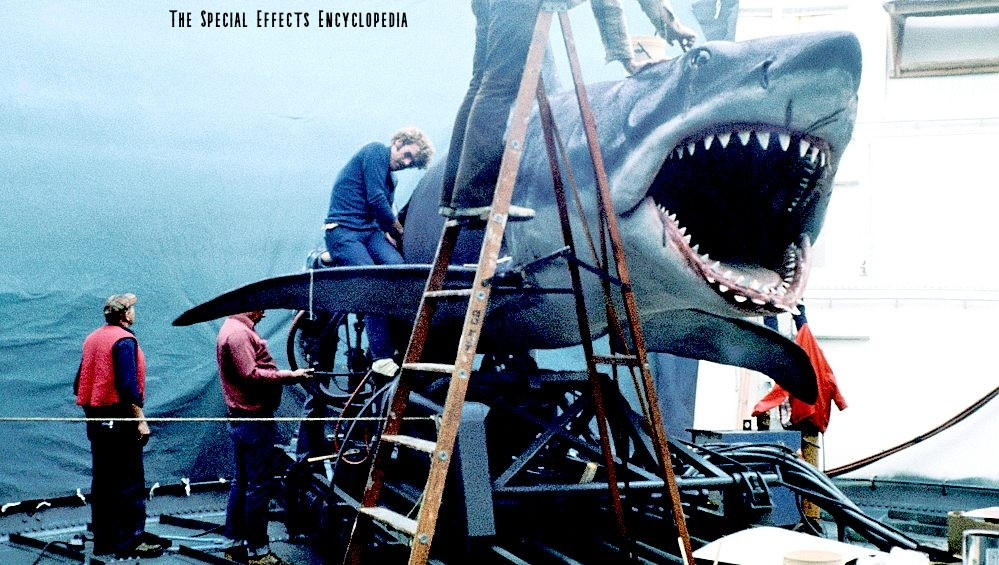
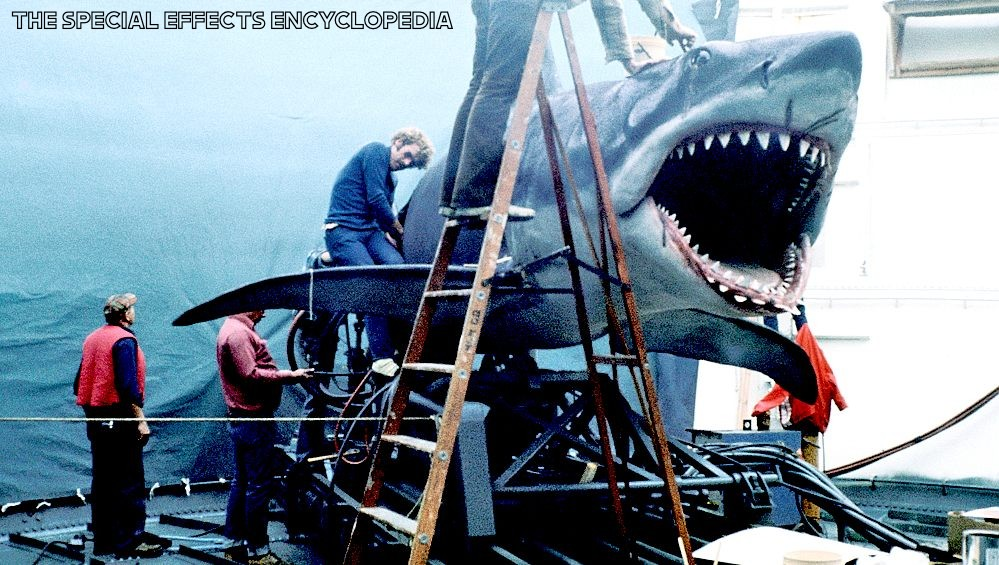
initial alien animatronic page

Changed region(s): [[0.0, 0.0, 0.4655, 0.0602]]

diff --git a/pages/alien/alien-animatronic.html b/pages/alien/alien-animatronic.html
@@ -18,6 +18,10 @@
     <link href="https://fonts.googleapis.com/css2?family=Fjalla+One&display=swap" rel="stylesheet">
     <link rel="preconnect" href="https://fonts.gstatic.com">
     <link href="https://fonts.googleapis.com/css2?family=Overpass:wght@200&display=swap" rel="stylesheet">
+    <link rel="preconnect" href="https://fonts.gstatic.com">
+    <link href="https://fonts.googleapis.com/css2?family=Asap+Condensed&display=swap" rel="stylesheet">
+
+
 
     <style>
         body {
@@ -124,10 +128,39 @@
                 ALIEN QUEEN FROM THE FILM <em>"ALIENS" </em> WAS BOTH A CONCEPTUAL AND MECHANICAL MASTERPIECE.
                 <br>
             </h4>
-             </div>
-             <br>
+        </div>
+        <br>
 
     </div>
+    <br>
+
+    <div class="container">
+        <div class="row">
+            <div class="col">
+                <img class="img-gbge" src="../../images/alien/al-anim2.jpg">
+            </div>
+            <div class="col">
+                <p class="al-an-text">James Cameron conceived a radical approach to puppeteering her, which would
+                    involve
+                    hanging the creature
+                    from an overhead crane and stationing two stunt men inside the mid-section to operate the puppet’s
+                    four arms. Other key functions would be controlled through external rods, wires and hydraulics.
+                </p>
+                <p class="al-an-text">“When Jim first came to me with this idea of putting two guys inside a giant alien
+                    queen suit,”
+                    Winston admitted, “I thought, ‘This man is out of his mind.’ Nothing like that had been done before.
+                    But in the next moment, I realized that if he had imagined it, we could probably do it.”</p>
+                <p class="al-an-text">For a Stan Winston Studio proof-of-concept test, stunt performers puppeteered ski-pole arm extensions
+                    from inside a crane-suspended ‘garbage bag queen’ in the studio parking lot, a simple foam mockup
+                    covered in black trash bags. "Just to see if this concept worked,” Winston said, “and it did.</p>
+            </div>
+        </div>
+    </div>
+    <br>
+    <br>
+    <br>
+    <br>
+
 
 
     <script src="https://code.jquery.com/jquery-3.5.1.slim.min.js"

diff --git a/styles/alien.css b/styles/alien.css
@@ -123,6 +123,15 @@ nav {
     font-family: 'Audiowide', cursive;
 }
 
+.al-an-text {
+    background-color: rgba(0, 0, 0, 0.801);
+    padding: 5px 8px 5px 8px;
+    font-family: 'Asap Condensed', sans-serif;
+    border-radius: 6px;
+    font-size: 16px;
+    margin-bottom: 25px;
+    color: whitesmoke;
+}
 .alien-anim-queen-main {
     text-align: center;
 }
@@ -130,6 +139,10 @@ nav {
 .alien-queen {
     border: rgba(0, 0, 0, 0.425) solid 2px;
     border-radius: 4px;
+}
+
+.img-gbge {
+    border-radius: 6px;
 }
 
 .hr-break {
@@ -143,6 +156,7 @@ nav {
     background-color: rgb(0, 0, 0);
     text-align: center;
     margin: 0 auto;
+    margin-top: 20px;
     border-radius: 10px;
     padding: 5px 1px 5px 1px;
     display: inline;

diff --git a/styles/jurassicpark.css b/styles/jurassicpark.css
@@ -11,8 +11,8 @@ nav {
     position: fixed;
     top: 0px;
     width: 100%;
-
 }
+
 .nav-button {
     border: 1px solid rgba(0, 0, 0, 0);
     font-size: 14px;
@@ -62,11 +62,12 @@ nav {
     margin: 4px 0px 5px 4px;
     font-size: 15px;
     border-radius: 3px;
+    display: inline-flexbox;
+    flex-flow: row;
 }
 
 .jp-thumb-image {
     border-radius: 4px;
-   
 }
 
 .jp-btn-group {
@@ -95,6 +96,7 @@ nav {
 
 .trex-anim {
     border-radius: 4px;
+    
 }
 
 .jp-anim-cont {
@@ -193,7 +195,6 @@ nav {
     width: 80%;
     max-width: 700px;
     margin-top: 80px;
-    
 }
 
 /* Caption of Modal Image (Image Text) - Same Width as the Image */
@@ -250,3 +251,4 @@ nav {
         width: 100%;
     }
 }
+

diff --git a/pages/jurassicpark/jp-animatronic.html b/pages/jurassicpark/jp-animatronic.html
@@ -44,7 +44,7 @@
                     <div class="dropdown-menu" aria-labelledby="navbarDropdown">
                         <a class="dropdown-item" href="../../pages/jaws/jaws.html">Jaws</a>
                         <a class="dropdown-item" href="jurassic-park.html">Jurassic Park</a>
-                        <a class="dropdown-item" href="../..pages/alien/alien.html">Alien</a>
+                        <a class="dropdown-item" href="../../pages/alien/alien.html">Alien</a>
 
                     </div>
                 </li>

diff --git a/index.html b/index.html
@@ -78,8 +78,9 @@
   <br>
   <br>
   <br>
+  <br>
   
-  <img src="./images/jaws/main-jaws-photo.jpg" alt="shark" class="center">
+  <img src="./images/jaws/jaws-main-one.jpg" alt="shark" class="center">
   <script src="https://code.jquery.com/jquery-3.5.1.slim.min.js"
     integrity="sha384-DfXdz2htPH0lsSSs5nCTpuj/zy4C+OGpamoFVy38MVBnE+IbbVYUew+OrCXaRkfj"
     crossorigin="anonymous"></script>

diff --git a/styles/jaws.css b/styles/jaws.css
@@ -40,7 +40,9 @@ nav {
     display: block;
     margin-left: auto;
     margin-right: auto;
-    width: 80%;
+    width: 75%;
+    opacity: 0.9;
+    border-radius: 12px;
 }
 
 .btn {

diff --git a/styles/fp.css b/styles/fp.css
@@ -95,6 +95,10 @@ nav {
     padding-top: 8px;
 }
 
+.cont-fp {
+    background-color: gray;
+}
+
 
 /* MINIATURE MODAL CSS BELOW */
 
